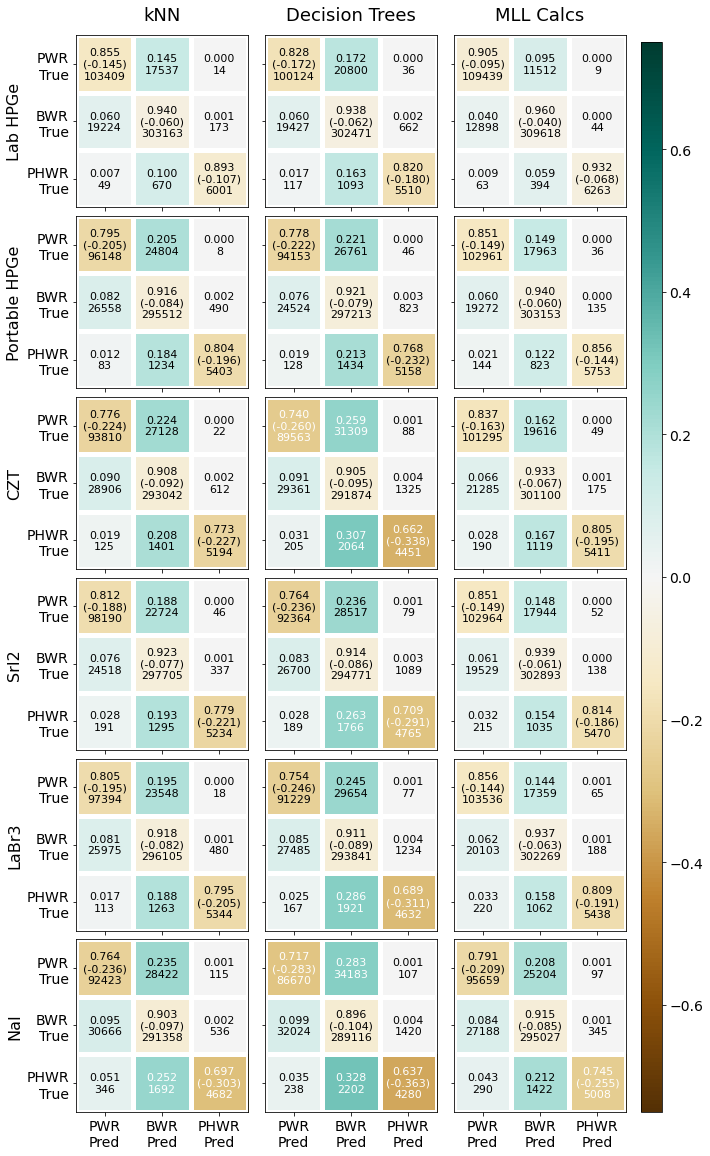
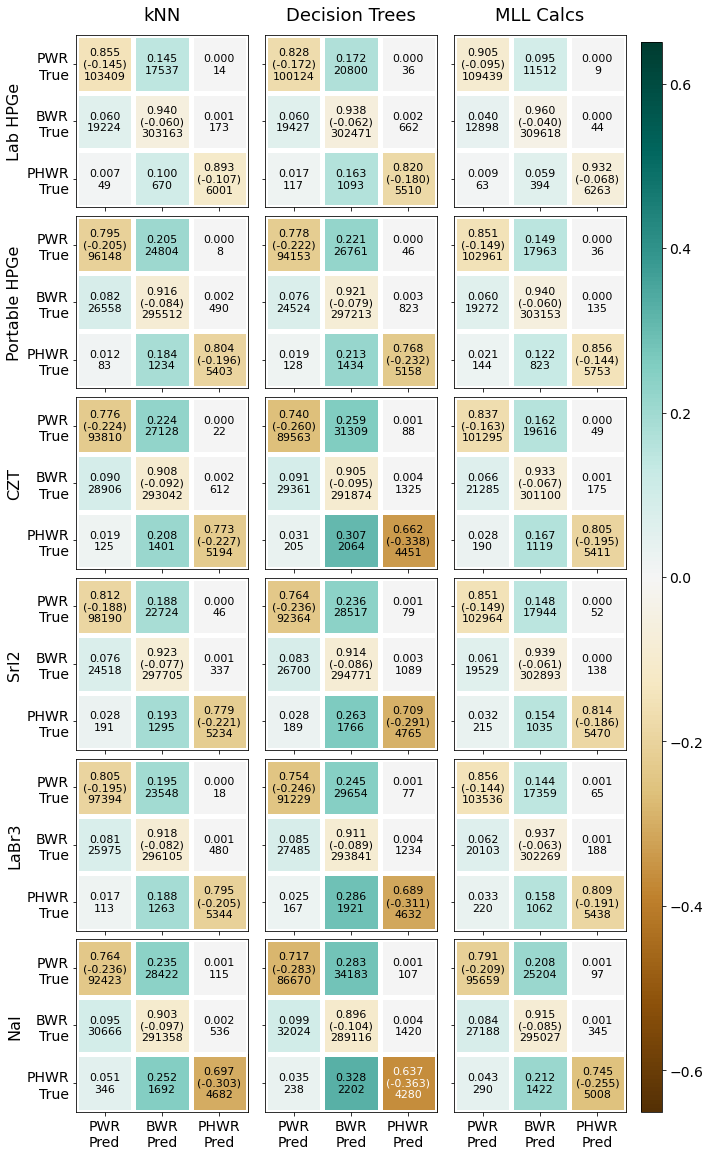
updating some figures to be easuer to read. updating mostly ch 5 rxtr discussion

diff --git a/document/chapters/exp2/eval_rxtr.tex b/document/chapters/exp2/eval_rxtr.tex
@@ -1,17 +1,15 @@
 
-To judge the degradation of predictions of the algorithms with decreasing
-information quality (detailed in Section \ref{sec:inforeduc2}), a plot for each
-energy window list (auto, short, and long) is presented.  Figure \ref{fig:rxtr}
-shows the balanced accuracy of reactor type classification for the previously
-described \textit{x}-axis, where a score of $1$ is perfect prediction and a
-score of $0$ is random classification. The error bars (which are not visible
-past the marker size on the plots) reflect a 99\% confidence interval.  The
-blue line that indicates an ideal performance is at 0.84 balanced accuracy,
-which is based on the lowest performance of all three algorithms at 20\%
-training set error for the 29 nuclide mass training set in Figure
-\ref{fig:randerrA}.  The red line that indicates a baseline/minimum acceptable
-performance is at a balanced accuracy score of 0.75, which is an arbitrary
-choice. 
+To judge the degradation of algorithm predictions with decreasing information
+quality (detailed in Section \ref{sec:inforeduc2}), a plot based on Figure
+\ref{fig:detdemo} is presented for each energy window list (auto, short, and
+long).  Figure \ref{fig:rxtr} shows the balanced accuracy of reactor type
+classification for the previously described \textit{x}-axis, where a score of
+$1$ is perfect prediction and a score of $0$ is random classification. The
+error bars (which are not visible past the marker size on the plots) reflect a
+99\% confidence interval.  The red baseline that indicates a minumum acceptable
+performance is at 0.84 balanced accuracy, which is based on the lowest
+performance of all three algorithms at 20\% training set error for the 29
+nuclide mass training set in Figure \ref{fig:randerrA}.  
 
 \begin{figure}[!htb]
   \centering
@@ -22,55 +20,51 @@ choice.
   \label{fig:rxtr}
 \end{figure}
 
-For the auto and short energy windows lists, the \textit{k}-nearest neighbors
-performance is usually below \gls{MLL} calculations and above decision trees,
-which is not expected. In Figure \ref{fig:randerrA}, the \textit{k}-nearest
-neighbors line emerges with the lowest performance with decreasing information,
-and it is interesting that this pattern did not emerge with the detectors'
-performances. For the lab-based and portable \gls{HPGe}s, \textit{k}-nearest
-neighbors has the worst performance for the auto and long lists, and
-drastically so for the auto list cases. There are a few instances of
-\textit{k}-nearest neighbors being above the red line: portable \gls{HPGe} for
-the short list, \gls{SrI2} for the auto and short lists, and \gls{LaBr3} for
-the short list. Also, the lab-based \gls{HPGe} exceeds the blue line.
+The previous results in Figure \ref{fig:randerrA} show the \textit{k}-nearest
+neighbors line emerging with the lowest performance with decreasing
+information, and it is interesting that this pattern did not emerge with the
+detectors' performances in Figure \ref{fig:rxtr}.  Instead, for the auto and
+short energy windows lists, the \textit{k}-nearest neighbors performance is
+below \gls{MLL} calculations and above decision trees (except in the two unique
+cases in the auto energy windows list).  For the lab-based and portable
+\gls{HPGe}s, \textit{k}-nearest neighbors has the worst performance among all
+three algorithms for the auto and long lists, and drastically so for the two
+unique auto list cases of extremely poor performance.  In terms of the
+baseline, there is only one instance of \textit{k}-nearest neighbors being
+above it: the lab-based \gls{HPGe} with the short energy windows list. 
 
-For the short and long energy windows lists, decision trees only performs above
-the red line for the lab-based \gls{HPGe} detector, and the remaining detectors
-have a decision trees performance below the baseline; there is no detector for
-which decision trees performs above the baseline on the auto list plot.
-Decision trees almost consistently performs the worse for the last four
-detectors.
+There are no detector-based training sets at all for which decision trees
+performs above the baseline. For the last four detectors on the \textit{x}-axis
+and all three energy windows lists, decision trees almost consistently performs
+the worst. 
 
-For the short and long energy windows lists, \gls{MLL} is above the baseline
-except for the \gls{NaI} detector.  For the auto list, only the last two
-detectors (\gls{LaBr3} and \gls{NaI}) are below the red line.  The majority of
-the data points for \gls{MLL} do not exceed the blue line, except for the
-following cases: lab-based \gls{HPGe} for all three lists, and \gls{SrI2} for
-the auto energy windows list.
+The \gls{MLL} calculations are the best performing algorithm on on three plots.
+For the auto energy windows list, the lab-based \gls{HPGe} and \gls{SrI2}
+detector-based training sets perform above the baseline. For the short and long
+energy windows lists, only the lab-based \gls{HPGe} is above the baseline. 
 
-Only the first three \textit{x}-axis categories exceed the blue line for all
+Only the first three \textit{x}-axis categories exceed the baseline for all
 three algorithms, which is expected for the various levels of full-knowledge
-represented. The short energy windows list has the most data points above the
-red line, and so can be declared to perform the best among the three lists for
-reactor type prediction.  The slightly worse outcomes for the long energy
-windows list are to be expected from the algorithms having to deal with a lot
-of non-useable features, \todo{add this warning to i-reduc} especially for the
-last four detectors.  The variable behavior of the auto energy windows list
-would require further study, but the fact that the \gls{SrI2} detector
-ouperforms all of the solid state detectors speaks to how an automatic peak
-search should not be discarded as a method. This set of points outperforms even
-the portable \gls{HPGe} on the short energy windows list.
+represented. The baseline may or may not be drawn at a reasonable level with
+which to distinguish "acceptable" performance, but given its location, only the
+lab-based \gls{HPGe} detector with \gls{MLL} calculations performs at an
+acceptable level.
 
-As in Section \ref{sec:randerr}, the reactor type classification performance
-discussion would not be complete without the added detail that confusion
-matrices supply. First, the four "full knowledge" training sets are presented
-in Figure \ref{fig:cm_nucs_acts}.  The 29 nuclide mass training set (top panel)
-is repeated from the 1\% training set error case in Figure \ref{fig:cm_nuc29}.
-For the 32 nuclide activity training set (second panel), the numbers are
-approximately the same, but interestingly, they improve slightly for
-\textit{k}-nearest neighbors and \gls{MLL} calculations.  A visible increase in
-misclassification is clear with the 12 and 7 nuclide activity training sets,
-especially for decision trees. \todo[inline]{discuss numbers or no?}
+Next, the comparison of the gamma spectra processing will be dicussed,
+neglecting the baseline.  The short energy windows list performs the best
+across the three methods used to process the gamma spectra. The auto energy
+windows lists has one of the scintillator detectors (\gls{SrI2}) outperform the
+baseline for \gls{MLL}, but the scikit-learn algorithms for the solid state
+detectors perform erratically.  The variable behavior of the auto energy
+windows list would require further study, but the fact that the \gls{SrI2}
+detector outperforms all of the solid state detectors speaks to how an
+automatic peak search should not be discarded as a method.  The auto energy
+windows list set of points for \gls{SrI2} outperforms even the portable
+\gls{HPGe} on the short energy windows list.  The slightly worse outcomes for
+the long energy windows list are to be expected from the algorithms having to
+deal with a lot of non-useable features, \todo{add this warning to i-reduc}
+especially for the last four detectors, since their spectra will not contain
+measurable peaks from many of the gamma energies in that list. 
 
 \begin{figure}[!htbp]
   \centering
@@ -82,41 +76,104 @@ especially for decision trees. \todo[inline]{discuss numbers or no?}
   \label{fig:cm_nucs_acts}
 \end{figure}
 
-\begin{figure}[H]
+As in Section \ref{sec:randerr}, the reactor type classification performance
+discussion would not be complete without the added detail that confusion
+matrices supply. First, the four "full knowledge" training sets are presented
+in Figure \ref{fig:cm_nucs_acts}.  Note that the color bar extends from -0.1 to
+0.1, which is a very small range.  The results in all four panels are all quite
+accurate, so a small color bar range is necessary to make a visual distinction
+of performance relative to the other full knowledge cases.  The 29 nuclide mass
+training set (top panel) is repeated from the 1\% training set error case in
+Figure \ref{fig:cm_nuc29}.  For the 32 nuclide activity training set (second
+panel), the numbers are approximately the same, but interestingly, they improve
+slightly for \textit{k}-nearest neighbors and \gls{MLL} calculations.  A
+visible increase in misclassification is clear with the 12 and 7 nuclide
+activity training sets, especially for decision trees. The starkest increase in
+misclassification is with \gls{PWR}s being classified as \gls{BWR}s. This
+increases from about 5\% to about 10\% from the 12-nuclide set to the 7-nuclide
+set. For the 7-nuclide set decision trees classification, the misclassification
+of \gls{PHWR}s as \gls{BWR}s reaches about 5\%. By contrast, the same
+misclassification is 3\% for \textit{k}-nearest neighbors and 1\% for \gls{MLL}
+calculations. 
+
+\begin{figure}[!htbp]
   \centering
   \includegraphics[width=0.83\textwidth]{./chapters/exp2/confusion_matrix_6dets_auto.png}
   \caption{Confusion matrices for auto energy window list training sets.}
   \label{fig:cm_auto}
 \end{figure}
 
-\begin{figure}[H]
+\begin{figure}[!htbp]
   \centering
   \includegraphics[width=0.83\textwidth]{./chapters/exp2/confusion_matrix_6dets_short.png}
   \caption{Confusion matrices for short energy window list training sets.}
   \label{fig:cm_short}
 \end{figure}
 
-\begin{figure}[H]
+\begin{figure}[!htbp]
   \centering
   \includegraphics[width=0.83\textwidth]{./chapters/exp2/confusion_matrix_6dets_long.png}
   \caption{Confusion matrices for long energy window list training sets.}
   \label{fig:cm_long}
 \end{figure}
 
-Figure \ref{fig:cm_auto} shows the confusion matrices for all six detectors (in
-the same order top-to-bottom as the \textit{x}-axis in Figure \ref{fig:rxtr})
-for the auto energy windows list training sets. The \textit{k}-nearest
-neighbors performances for the two \gls{HPGe}s were notably poor in the plot,
-and the confusion matrices for these two cases explains why: not only are
-40.8\% and 62.1\% of \gls{PHWR}s being misclassified as \gls{BWR}s for the
-lab-based and portable \gls{HPGe}s, respectively, 31.2\% and 42.9\% of the
-\gls{PWR}s are misclassified as \gls{BWR}s for the same two detectors,
-respectively. By contrast, the second-best performing \textit{k}-nearest
-neighbors-predicted detector case was the auto energy windows list for
-\gls{SrI2}. The confusion matrix (in the fourth panel) for that data point 
-shows 
+Next, Figures \ref{fig:cm_auto}, \ref{fig:cm_short}, and \ref{fig:cm_long} show
+the confusion matrices for all six detectors (in the same order top-to-bottom
+as the \textit{x}-axis in Figure \ref{fig:rxtr}) for the auto, short, and long
+energy windows list training sets, respectively. For these figures, the color
+bar range is much wider (-0.65 to 0.65) than with the more accurate results in
+Figure \ref{fig:cm_nucs_acts}. 
 
-\todo[inline]{come back to this: discussion incomplete. I think most of the
-discussion will focus on PWR/PHWR being misclassified as BWR, since that is the
-main two sources of misclassification.  The other squares stay pretty purple.}
+In Figure \ref{fig:cm_auto}, the two poorly performing \textit{k}-nearest
+neighbors \gls{HPGe} cases are the most noticable confusion matrices visually.
+The \textit{k}-nearest neighbors performances for the two \gls{HPGe}s were
+notably poor in the plot, and the confusion matrices for these two cases
+explains why: not only are 40.8\% and 62.1\% of \gls{PHWR}s being misclassified
+as \gls{BWR}s for the lab-based and portable \gls{HPGe}s, respectively, 31.2\%
+and 42.9\% of the \gls{PWR}s are misclassified as \gls{BWR}s for the same two
+detectors, respectively.
 
+By contrast, the anomalous high performance of the \gls{SrI2} detector training
+set, for all three algorithms, can be seen in its panel that is paler in over
+color than its surroundings.  The confusion matrix (in the fourth panel) for
+those data points show no more than 16\% of \gls{BWR}-misclassified \gls{PWR}s
+and \gls{PHWR}s for \textit{k}-nearest neighbors, no more than 23\% for
+decision treesm and no more than 13\% for \gls{MLL} calculations. 
+
+Aside from the two poorly performing \textit{k}-nearest neighbors cases, the
+decision trees column has the boldest colors/poorest performance.  The lowest
+\gls{BWR} misclassification value is 22\%.  Additionally, it can be visually
+percieved at a glance that the \gls{MLL} column has better performance than the
+other two algorithms. This is expected from the higher balanced accuracy scores
+in Figure \ref{fig:rxtr}.  Throughout all six panels, the highest
+misclassification value is 25\%.
+
+Next, Figure \ref{fig:cm_short} is on the following page, providing more detail
+about the reactor type classification than is seen in the middle plot in Figure
+\ref{fig:rxtr}.  The better classification performance across all algorithms
+can be seen instantly, since the color bar spans the same range as with Figure
+\ref{fig:cm_auto}. Again, the relatively poor performance of decision trees can
+be seen with the bolder colors compared to the two other algorithms. For
+decision trees, the misclassification of \gls{PHWR}s as \gls{BWR}s reaches
+32.8\%, whereas those values are 25.2\% for \textit{k}-nearest neighbors and
+21.2\$ for \gls{MLL} calculations.
+
+Last, Figure \ref{fig:cm_long} provides more classification detail on the third
+plot in Figure \ref{fig:rxtr}. The \gls{MLL} performance takes a similar shape
+at a slightly lower balanced accuracy score compared to the short auto energy
+windows list, seen in Figure \ref{fig:rxtr} and in the comparison of Figures
+\ref{fig:cm_short} and \ref{fig:cm_long}. What makes the long energy windows
+list results unique is that \textit{k}-nearest neighbors and decision trees
+have very close balanced accuracy scores for the bottom four detectors. By
+looking at their confusion matrices, one can see that the misclassification
+patterns are also similar. The first two detectors, both of the \gls{HPGe}s,
+have notably lower classification performance for \textit{k}-nearest neighbors,
+however. This may or may not be related to the reason the two training sets
+from these detectors perform significantly worse for the auto energy windows
+list. 
+
+Overall, the sets of confusion matrices presented in Figures
+\ref{fig:cm_nucs_acts}-\ref{fig:cm_long} show various degrees of the same
+misclassification pattern. With less information, more \gls{PWR}s and
+\gls{PHWR}s get classified as \gls{BWR}s. Since about 72\% of the training set
+is an entry on \gls{BWR}, this pattern is expected. 

diff --git a/document/chapters/exp2/eval_reg.tex b/document/chapters/exp2/eval_reg.tex
@@ -2,19 +2,20 @@
 In this section, the results of the regression cases (burnup, enrichment, and
 time since irradiation) are presented. For each prediction parameter, the plot
 format described in Figure \ref{fig:detdemo} is used to show both the
-\gls{MAPE} and \gls{MAE} for each of the three energy window lists.  However,
-while seeing the performance decrease with all three algorithms on the same
-plot is helpful for getting a bigger picture of the results, a more detailed
-visual is also helpful. Box plots provide this increased statistical detail and
-a direct comparison of mean and median error for each data point. There are the
-same "goal" lines (blue lines) and baselines (red lines), but they are flipped
-since the axis is no longer negative.  There is one plot for each algorithm for
-a given energy window list-based set of detector training sets.  Because these
-are box plots, they are not oriented to the "higher is better" standard of the
-\textit{y}-axis of the original prediction performance plots. Additionally, the
-full knowledge cases (the 29 nuclide masses, and the 32, 12, and 7 nuclide
-activities sets) are not able to be represented on the same scale as the
-detector training set results, so they are excluded from the box plot figures. 
+\gls{MAPE} for each of the three energy window lists.  However, while seeing
+the performance decrease with all three algorithms on the same plot is helpful
+for getting a bigger picture of the results, a more detailed visual is also
+helpful. Box plots provide increased statistical detail and a direct comparison
+of mean and median error for each data point, which each taken alone can paint
+a drastically different picture of the results.  There is one set of boxes for
+each algorithm for a given energy window list-based set of detector training
+sets.  Because these are box plots, they are not oriented to the "higher is
+better" standard of the \textit{y}-axis of the original prediction performance
+plots.  There are the same red baselines, but they are now at a positive value
+since the \textit{y}-axis is no longer negative.  Lastly, the full knowledge
+cases (the 29 nuclide masses, and the 32, 12, and 7 nuclide activities sets)
+are not able to be represented on the same scale as the detector training set
+results, so they are excluded from the box plot figures. 
 
 \subsubsection{Burnup Regression}
 

diff --git a/document/chapters/exp2/evaluation.tex b/document/chapters/exp2/evaluation.tex
@@ -37,7 +37,7 @@ auto, short, and long.  The \textit{y}-axis is always oriented so that higher
 levels indicate better performance, so is plotted as accuracy score or negative
 error.  
 
-The \textit{x}-axis is oriented so that degradation travels rightward.
+The \textit{x}-axis is oriented so that reduced information travels rightward.
 First, the 29 nuclide mass training set is included for comparison, followed by
 the 32 nuclide activity training set, which is intended to represent a full
 knowledge scenario of nuclide activities before gamma detection. These are both
@@ -49,15 +49,16 @@ plots.  All of the nuclide mass/nuclide activity training sets are predicted
 with a 1\% training set error applied.  Last, the six detectors are in order of
 decreasing detector energy resolution. Thus, for each prediction parameter,
 there are three plots for each energy window list with these nine
-\textit{x}-axis categories.
+\textit{x}-axis categories. 
 
-Another component of Figure \ref{fig:detdemo} are the two horizontal lines. The
-bottom/red line represents some measure of minimum acceptable "base level"
-performance.  Depending on the metric being presented, this is derived from the
-training set composition or the performance of the 29 nuclide mass training set
-in Section \ref{sec:eval1}. The top/blue line represents the ideal performance,
-and is also determined either from the training set design or previous
-performance with the 29 nuclide mass training set.
+The last component of Figure \ref{fig:detdemo} is the red horizontal line.  It
+represents a minimum acceptable performance, interpreted from the results in
+Section \ref{sec:eval1}. It is drawn at the level of the worst performing
+aglorithm at 20\% training set error.  This is therefore somewhat arbitrary,
+but if the detectors cannot predict above this level, it means that a
+detector-based training set with only counting error cannot reach the level of
+performance of 20\% error in a training set based on an assay of 29 nuclide
+masses.
 
 \subsection{Reactor Type Classification}
 \input{chapters/exp2/eval_rxtr}

diff --git a/document/chapters/litrev/algs.tex b/document/chapters/litrev/algs.tex
@@ -45,6 +45,7 @@ training set.  The lowest \textit{k} $d_{i}$ are chosen. For \textit{k}-nearest
 neighbors regression, the value, $y$ is predicted using the following equation.
 \begin{equation}
   y(\boldsymbol{x}) = \frac{1}{k} \sum_{i=1}^{k} w_i \cdot y_i
+  \label{eq:knn}
 \end{equation}
 where $w_{i}$ is either uniform and takes on a value of $1$ or is
 distance-based and takes on a value of $1/d_{i}$ and $\boldsymbol{x}$ is the
@@ -138,7 +139,7 @@ so is not indicative of a real decision tree.
 In Figure \ref{fig:dtr}, the first split is determined to occur at the feature
 Sm149 on whether the nuclide measurement is above a value of $-1.33$. Note that
 this value is negative because of the scaling process the training set is put
-through, described in Section \ref{sec:statmodels1}.\todo{check this later} The
+through, described in Section \ref{sec:statmodel1}.\todo{check this later} The
 majority class at this node is \gls{BWR} which is expected since the training
 set is 72\% \gls{BWR}.  The values list indicates the fraction of each class in
 the node, which is alphabetically ordered \texttt{[BWR, PHWR, PWR]}. It is even
